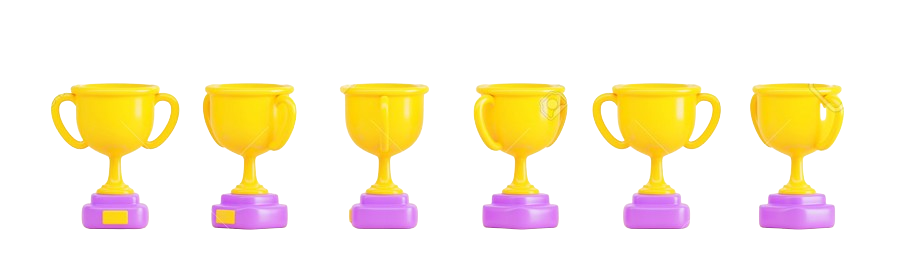
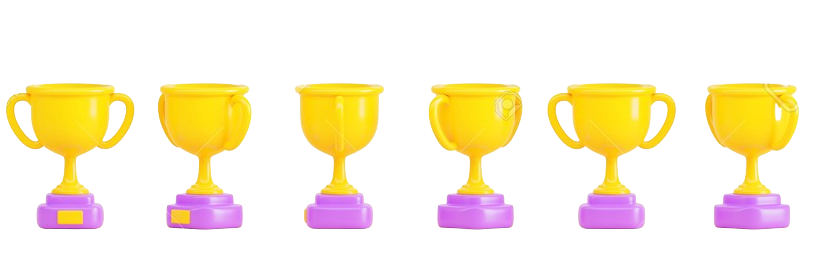
se agrega pantalla de derrota y se arreglan algunas cosas de la pantalla de ganador

Changed region(s): [[0.5208, 0.2909, 0.9804, 0.8436], [0.0, 0.2909, 0.4902, 0.8436]]

diff --git a/client/lobby.cpp b/client/lobby.cpp
@@ -161,18 +161,17 @@ int Lobby::cantidad_jugadores() const{
 }
 
 
-void Lobby::cargar_pantalla(std::vector<SDL_Texture*>& texturas_ganador) {
+void Lobby::cargar_pantalla(std::vector<SDL_Texture*>& texturas_ganador, std::string path, 
+            int cant_frames, int frame_width, int frame_height, int offset_x, int offset_y) {
     // Load the surface for the winner screen
-    SDL_Surface* ganador_surface = IMG_Load("../resources/winner.png");
+    SDL_Surface* ganador_surface = IMG_Load(path.c_str());
     if (!ganador_surface) {
         SDL_Log("Failed to load image: %s", SDL_GetError());
         return;
     }
 
-    int frame_width = 152;
-    int frame_height = 275;
-    for (int i = 0; i < 6; i++) {
-        SDL_Rect frame_rect = { i * frame_width, 0, frame_width, frame_height };
+    for (int i = 0; i < cant_frames; i++) {
+        SDL_Rect frame_rect = { i * frame_width + offset_x , offset_y, frame_width, frame_height };
         SDL_Surface* frame_surface = SDL_CreateRGBSurface(0, frame_width, frame_height, 32, 0x00FF0000, 0x0000FF00, 0x000000FF, 0xFF000000);
 
         SDL_BlitSurface(ganador_surface, &frame_rect, frame_surface, nullptr);
@@ -191,7 +190,8 @@ void Lobby::mostrar_pantalla_ganador(int it) {
     static std::vector<SDL_Texture*> texturas_ganador;
     static bool loaded = false;
     if (!loaded) {
-        cargar_pantalla(texturas_ganador);
+        std::string path = "../resources/winner.png";
+        cargar_pantalla(texturas_ganador, path, 6, 136, 275, 0, 0);
         loaded = true;
     }
 
@@ -216,10 +216,50 @@ void Lobby::mostrar_pantalla_ganador(int it) {
     cargar_texto(texto, rect_texto, color, tamanio);
     SDL_Rect dest_rect = { 475, 150, 300, 400 };
     SDL_RenderCopy(renderer, texturas_ganador[it % 6], nullptr, &dest_rect);
+    SDL_Delay(100);
+    SDL_RenderPresent(renderer);
+
+    if (quit) return;
+}
+
+void Lobby::mostrar_pantalla_perdedor(){
+    static std::vector<SDL_Texture*> texturas_ganador;
+    static bool loaded = false;
+    if (!loaded) {
+        std::string path = "../resources/Grey-Duck.png";
+        cargar_pantalla(texturas_ganador, path, 4, 32, 32, 1, 71);
+        loaded = true;
+    }
+
+    SDL_Event event;
+    bool quit = false;
+
+    while (SDL_PollEvent(&event)) {
+        if (event.type == SDL_QUIT) {
+            cerrar();
+            quit = true;
+            break;
+        }
+    }
+
+    SDL_RenderClear(renderer);
+    SDL_Texture* fondo_texture = IMG_LoadTexture(renderer, "../resources/backgrounds/forest.png");
+    SDL_RenderCopy(renderer, fondo_texture, NULL, NULL);
+    SDL_Texture* grave_texture = IMG_LoadTexture(renderer, "../resources/grave.png");
+    SDL_Rect rect_grave = { 475, 250, 275, 275 };
+    SDL_RenderCopy(renderer, grave_texture, NULL, &rect_grave);
+    std::string texto = "YOU LOSE :(";
+    SDL_Rect rect_texto = { 520, 100, 200, 100 };
+    SDL_Color color = { 0, 0, 0, 255 };
+    int tamanio = 36;
+    cargar_texto(texto, rect_texto, color, tamanio);
+    SDL_Rect dest_rect = { 500, 200, 250, 350 };
+    SDL_RenderCopy(renderer, texturas_ganador[1], nullptr, &dest_rect);
 
     SDL_RenderPresent(renderer);
 
     if (quit) return;
+
 }
     
 

diff --git a/client/lobby.h b/client/lobby.h
@@ -25,7 +25,8 @@ private:
     void cargar_fondo();
     void cargar_boton(std::string& texto, SDL_Rect& boton_rect);
     void cargar_texto(std::string& texto, SDL_Rect& boton_rect, SDL_Color& color, int tamanio);
-    void cargar_pantalla(std::vector<SDL_Texture*>& texturas_ganador);
+    void cargar_pantalla(std::vector<SDL_Texture*>& texturas_ganador, std::string path, 
+                    int cant_frames, int frame_width, int frame_height, int offset_x, int offset_y);
     void cerrar();
 
 public:

diff --git a/client/interfaz_grafica.cpp b/client/interfaz_grafica.cpp
@@ -80,6 +80,7 @@ void InterfazGrafica::iniciar() {
     while(true) {
         renderer.Clear();
         lobby.mostrar_pantalla_ganador(it);
+        //lobby.mostrar_pantalla_perdedor();
         drop_rest(tiempo_ultimo_frame, it);
     }
 
